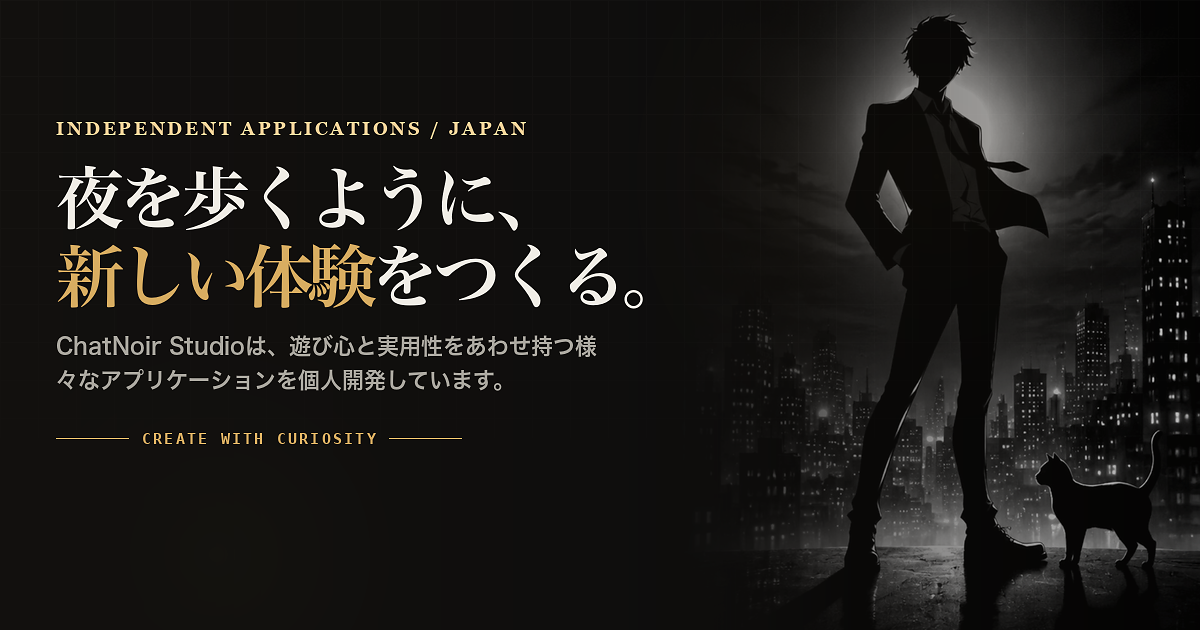
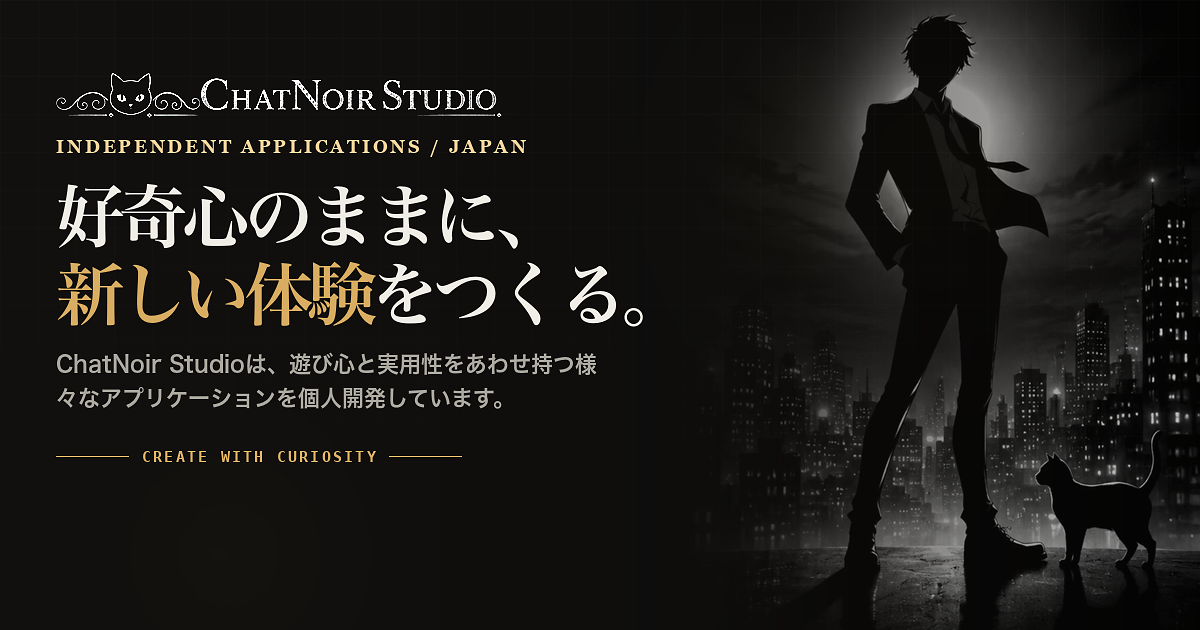
ヒーロー文言とOGPカードを更新し、レトロサウンドをベータ公開にする

Changed region(s): [[0.0308, 0.2714, 0.555, 0.6635], [0.0308, 0.1206, 0.4317, 0.2413], [0.1233, 0.6937, 0.3083, 0.754]]

diff --git a/index.html b/index.html
@@ -1,7 +1,7 @@
 <!doctype html>
-<html lang="ja"><head><meta charset="utf-8"><meta name="viewport" content="width=device-width, initial-scale=1"><meta name="description" content="ChatNoir Studioは、遊び心と実用性をあわせ持つ個人開発アプリケーションを制作しています。"><meta name="theme-color" content="#090a0b"><meta property="og:title" content="ChatNoir Studio"><meta property="og:description" content="遊び心と実用性をあわせ持つ、個人開発アプリケーション。"><meta property="og:type" content="website"><meta property="og:url" content="https://true-ocean.github.io/"><meta property="og:locale" content="ja_JP"><meta property="og:site_name" content="ChatNoir Studio"><meta property="og:image" content="https://true-ocean.github.io/assets/og-home.png"><meta property="og:image:type" content="image/png"><meta property="og:image:width" content="1200"><meta property="og:image:height" content="630"><meta property="og:image:alt" content="夜の街に立つ人物と黒猫。夜を歩くように、新しい体験をつくる。"><meta name="twitter:card" content="summary_large_image"><meta name="twitter:title" content="ChatNoir Studio"><meta name="twitter:description" content="遊び心と実用性をあわせ持つ、個人開発アプリケーション。"><meta name="twitter:image" content="https://true-ocean.github.io/assets/og-home.png"><meta name="twitter:image:alt" content="夜の街に立つ人物と黒猫。夜を歩くように、新しい体験をつくる。"><link rel="canonical" href="https://true-ocean.github.io/"><title>ChatNoir Studio — Independent applications</title><link rel="stylesheet" href="assets/site.css"></head>
+<html lang="ja"><head><meta charset="utf-8"><meta name="viewport" content="width=device-width, initial-scale=1"><meta name="description" content="ChatNoir Studioは、遊び心と実用性をあわせ持つ個人開発アプリケーションを制作しています。"><meta name="theme-color" content="#090a0b"><meta property="og:title" content="ChatNoir Studio"><meta property="og:description" content="遊び心と実用性をあわせ持つ、個人開発アプリケーション。"><meta property="og:type" content="website"><meta property="og:url" content="https://true-ocean.github.io/"><meta property="og:locale" content="ja_JP"><meta property="og:site_name" content="ChatNoir Studio"><meta property="og:image" content="https://true-ocean.github.io/assets/og-home.png"><meta property="og:image:type" content="image/png"><meta property="og:image:width" content="1200"><meta property="og:image:height" content="630"><meta property="og:image:alt" content="夜の街に立つ人物と黒猫。好奇心のままに、新しい体験をつくる。"><meta name="twitter:card" content="summary_large_image"><meta name="twitter:title" content="ChatNoir Studio"><meta name="twitter:description" content="遊び心と実用性をあわせ持つ、個人開発アプリケーション。"><meta name="twitter:image" content="https://true-ocean.github.io/assets/og-home.png"><meta name="twitter:image:alt" content="夜の街に立つ人物と黒猫。好奇心のままに、新しい体験をつくる。"><link rel="canonical" href="https://true-ocean.github.io/"><title>ChatNoir Studio — Independent applications</title><link rel="stylesheet" href="assets/site.css"></head>
 <body><div class="site-shell"><header class="site-header"><nav class="container nav" aria-label="メインナビゲーション"><a class="brand" href="./"><img class="brand-logo" src="assets/chatnoir-top-banner.png" alt="ChatNoir Studio"></a><div class="nav-links"><a href="#projects">Projects</a><a href="#philosophy">Philosophy</a></div></nav></header>
-<main><section class="hero"><div class="hero-poster" role="img" aria-label="夜の街に立つ人物と黒猫を描いたChatNoir Studioのイメージ"></div><div class="container hero-content"><p class="kicker">Independent applications / Japan</p><h1><span class="line">夜を歩くように、</span><span class="line"><em>新しい体験</em>をつくる。</span></h1><p class="lead">ChatNoir Studioは、遊び心と実用性をあわせ持つ様々なアプリケーションを個人開発しています。</p><p class="hero-rule">CREATE WITH CURIOSITY</p></div></section>
-<section class="section section-dark" id="projects"><div class="container"><div class="section-head"><div><p class="kicker">Projects</p><h2 class="heading-single">シャノワールの作品たち</h2></div><p class="section-copy">アイデアを、気持ちよく使える形へ。制作中のアプリケーションとプロジェクトを紹介します。</p></div><div class="projects"><article class="project project-retrosound eq-spectrum"><span class="project-eq" aria-hidden="true"><i></i><i></i><i></i><i></i><i></i></span><p class="project-status">SOUND CREATOR</p><h3>レトロサウンド</h3><p class="project-desc">ゲームの場面や用途を選ぶだけで、BGMと効果音をつくるサウンドツール。</p><span class="project-arrow" aria-hidden="true">COMING SOON</span></article><article class="project"><p class="project-status">STRATEGIC CARD BATTLE</p><h3>ピクセルバトル</h3><p class="project-desc">自分で描いたピクセル画像で強さが変わる、これまでにないカードバトル！</p><span class="project-arrow" aria-hidden="true">COMING SOON</span></article><a class="project project-keiba" href="/horse-racing/"><span class="project-horse" aria-hidden="true"></span><p class="project-status">HORSE RACING</p><h3>競馬アプリ</h3><p class="project-desc">競馬の楽しみ方を広げる、3つのアプリケーション。</p><span class="project-arrow" aria-hidden="true">VIEW APPS ↗</span></a></div></div></section>
+<main><section class="hero"><div class="hero-poster" role="img" aria-label="夜の街に立つ人物と黒猫を描いたChatNoir Studioのイメージ"></div><div class="container hero-content"><p class="kicker">Independent applications / Japan</p><h1><span class="line">好奇心のままに、</span><span class="line"><em>新しい体験</em>をつくる。</span></h1><p class="lead">ChatNoir Studioは、遊び心と実用性をあわせ持つ様々なアプリケーションを個人開発しています。</p><p class="hero-rule">CREATE WITH CURIOSITY</p></div></section>
+<section class="section section-dark" id="projects"><div class="container"><div class="section-head"><div><p class="kicker">Projects</p><h2 class="heading-single">シャノワールの作品たち</h2></div><p class="section-copy">アイデアを、気持ちよく使える形へ。制作中のアプリケーションとプロジェクトを紹介します。</p></div><div class="projects"><a class="project project-retrosound eq-spectrum" href="/GameSoundCreator/"><span class="project-eq" aria-hidden="true"><i></i><i></i><i></i><i></i><i></i></span><p class="project-status">SOUND CREATOR</p><h3>レトロサウンド</h3><p class="project-desc">ゲームの場面や用途を選ぶだけで、BGMと効果音をつくるサウンドツール。</p><span class="project-arrow" aria-hidden="true">ベータテスト中 ↗</span></a><article class="project"><p class="project-status">STRATEGIC CARD BATTLE</p><h3>ピクセルバトル</h3><p class="project-desc">自分で描いたピクセル画像で強さが変わる、これまでにないカードバトル！</p><span class="project-arrow" aria-hidden="true">COMING SOON</span></article><a class="project project-keiba" href="/horse-racing/"><span class="project-horse" aria-hidden="true"></span><p class="project-status">HORSE RACING</p><h3>競馬アプリ</h3><p class="project-desc">競馬の楽しみ方を広げる、3つのアプリケーション。</p><span class="project-arrow" aria-hidden="true">VIEW APPS ↗</span></a></div></div></section>
 <section class="section" id="philosophy"><div class="container"><p class="kicker">Philosophy</p><h2 class="heading-single">小さく、深く、心に残るものを。</h2><div class="beliefs"><article class="belief"><p class="belief-index">01 / PLAYFUL</p><h3>触れたくなること</h3><p>日常に、ほんの少しの驚きと遊び心を。</p></article><article class="belief"><p class="belief-index">02 / CRAFTED</p><h3>細部までつくること</h3><p>画面、音、動き。その一つひとつを丁寧に磨きます。</p></article><article class="belief"><p class="belief-index">03 / INDEPENDENT</p><h3>自分らしくつくること</h3><p>個人開発だからこそ、こだわりのあるものづくりを。</p></article></div></div></section>
 </main><footer class="site-footer"><div class="container footer-inner"><span>© 2026 ChatNoir Studio</span><span>Independent applications, made with curiosity.</span></div></footer></div></body></html>

diff --git a/scripts/generate-og-home.py b/scripts/generate-og-home.py
@@ -1,0 +1,237 @@
+#!/usr/bin/env python3
+"""Generate assets/og-home.png from the top-page hero composition (1200x630)."""
+
+from pathlib import Path
+from PIL import Image, ImageChops, ImageDraw, ImageEnhance, ImageFilter, ImageFont
+
+ROOT = Path(__file__).resolve().parents[1]
+OUT = ROOT / "assets" / "og-home.png"
+POSTER = ROOT / "assets" / "chatnoir-poster-figure.png"
+BANNER = ROOT / "assets" / "chatnoir-top-banner.png"
+
+W, H = 1200, 630
+PAPER = (240, 237, 230, 255)
+MUTED = (170, 167, 159, 255)
+GOLD = (216, 173, 97, 255)
+GOLD_BRIGHT = (242, 212, 154, 255)
+
+
+def find_font(pred):
+    for path in Path("/System/Library/Fonts").iterdir():
+        if pred(path.name):
+            return path
+    raise FileNotFoundError(pred)
+
+
+def load_font(path, size, index=0):
+    return ImageFont.truetype(str(path), size=size, index=index)
+
+
+def radial_glow(size, cx, cy, radius, color, peak_alpha):
+    layer = Image.new("RGBA", size, (0, 0, 0, 0))
+    px = layer.load()
+    r, g, b = color
+    r2 = radius * radius
+    x0, x1 = max(0, int(cx - radius)), min(size[0], int(cx + radius) + 1)
+    y0, y1 = max(0, int(cy - radius)), min(size[1], int(cy + radius) + 1)
+    for y in range(y0, y1):
+        dy = y - cy
+        for x in range(x0, x1):
+            d2 = (x - cx) * (x - cx) + dy * dy
+            if d2 >= r2:
+                continue
+            t = 1.0 - (d2 ** 0.5) / radius
+            a = int(peak_alpha * t * t)
+            if a:
+                px[x, y] = (r, g, b, a)
+    return layer
+
+
+def linear_gradient(size, stops, horizontal=True):
+    img = Image.new("RGBA", size)
+    px = img.load()
+    w, h = size
+    span = (w - 1) if horizontal else (h - 1)
+    for i in range(span + 1):
+        t = i / span
+        for a, b in zip(stops, stops[1:]):
+            if t <= b[0] or b is stops[-1]:
+                local = 0 if b[0] == a[0] else (t - a[0]) / (b[0] - a[0])
+                local = max(0.0, min(1.0, local))
+                color = tuple(int(a[1][c] + (b[1][c] - a[1][c]) * local) for c in range(4))
+                break
+        if horizontal:
+            for y in range(h):
+                px[i, y] = color
+        else:
+            for x in range(w):
+                px[x, i] = color
+    return img
+
+
+def cover_crop(im, tw, th, fx=0.5, fy=0.22):
+    iw, ih = im.size
+    scale = max(tw / iw, th / ih)
+    nw, nh = max(tw, round(iw * scale)), max(th, round(ih * scale))
+    im = im.resize((nw, nh), Image.Resampling.LANCZOS)
+    left = int(round(nw * fx - tw / 2))
+    top = int(round(nh * fy - th / 2))
+    left = max(0, min(left, nw - tw))
+    top = max(0, min(top, nh - th))
+    return im.crop((left, top, left + tw, top + th))
+
+
+def fade_mask(width, height, opacity=0.86):
+    mask = Image.new("L", (width, height), 0)
+    px = mask.load()
+    fade = max(1, int(width * 0.34))
+    peak = int(255 * opacity)
+    for x in range(width):
+        t = 1.0 if x >= fade else x / fade
+        val = int(peak * t)
+        for y in range(height):
+            px[x, y] = val
+    return mask
+
+
+def draw_tracked(draw, xy, text, font, fill, tracking=0):
+    x, y = xy
+    for ch in text:
+        draw.text((x, y), ch, font=font, fill=fill)
+        x += font.getlength(ch) + tracking
+    return x
+
+
+def wrap_text(text, font, max_width):
+    lines, current = [], ""
+    for ch in text:
+        trial = current + ch
+        if font.getlength(trial) <= max_width:
+            current = trial
+        else:
+            if current:
+                lines.append(current)
+            current = ch
+    if current:
+        lines.append(current)
+    return lines
+
+
+def load_banner(path, height=100, max_width=700):
+    im = Image.open(path).convert("RGBA")
+    gray = im.convert("L")
+    bbox = gray.point(lambda p: 255 if p > 32 else 0).getbbox()
+    if bbox:
+        pad = 2
+        left = max(0, bbox[0] - pad)
+        top = max(0, bbox[1] - pad)
+        right = min(im.width, bbox[2] + pad)
+        bottom = min(im.height, bbox[3] + pad)
+        im = im.crop((left, top, right, bottom))
+    scale = height / im.height
+    size = (max(1, round(im.width * scale)), height)
+    if size[0] > max_width:
+        scale = max_width / im.width
+        size = (max_width, max(1, round(im.height * scale)))
+    im = im.resize(size, Image.Resampling.LANCZOS)
+    im = ImageEnhance.Contrast(im).enhance(1.35)
+    im = ImageEnhance.Brightness(im).enhance(1.18)
+    luma = im.convert("L")
+    alpha = luma.point(lambda p: 0 if p < 26 else 255 if p > 48 else int((p - 26) * (255 / 22)))
+    im.putalpha(alpha)
+    return im.filter(ImageFilter.UnsharpMask(radius=1.4, percent=160, threshold=1))
+
+
+def main():
+    mincho_path = find_font(lambda n: "ProN.ttc" in n and "明朝" in n)
+    sans_path = find_font(lambda n: n.endswith("W6.ttc") and "角" in n)
+    menlo = Path("/System/Library/Fonts/Menlo.ttc")
+
+    kicker_font = load_font(Path("/System/Library/Fonts/Supplemental/Georgia Bold.ttf"), 18)
+    title_font = load_font(mincho_path, 68, index=2)
+    lead_font = load_font(sans_path, 22)
+    rule_font = load_font(menlo, 15, index=1)
+
+    canvas = Image.new("RGBA", (W, H), (8, 9, 10, 255))
+    canvas = Image.alpha_composite(
+        canvas,
+        radial_glow((W, H), int(W * 0.78), int(H * 0.28), 340, (232, 169, 56), 72),
+    )
+    canvas = Image.alpha_composite(
+        canvas,
+        radial_glow((W, H), int(W * 0.18), int(H * 0.88), 260, (185, 228, 83), 36),
+    )
+
+    poster_w = 520
+    poster = Image.open(POSTER).convert("RGB")
+    poster = ImageEnhance.Color(poster).enhance(0)
+    poster = ImageEnhance.Contrast(poster).enhance(1.08)
+    poster = cover_crop(poster, poster_w, H).convert("RGBA")
+    poster.putalpha(fade_mask(poster_w, H, opacity=0.88))
+    canvas.paste(poster, (W - poster_w, 0), poster)
+
+    overlay = linear_gradient(
+        (W, H),
+        [
+            (0.0, (18, 16, 14, 250)),
+            (0.42, (18, 16, 14, 194)),
+            (1.0, (18, 16, 14, 38)),
+        ],
+    )
+    canvas = Image.alpha_composite(canvas, overlay)
+
+    grid = Image.new("RGBA", (W, H), (0, 0, 0, 0))
+    gdraw = ImageDraw.Draw(grid)
+    step = 38
+    line = (240, 237, 230, 20)
+    for x in range(0, W, step):
+        gdraw.line((x, 0, x, H), fill=line)
+    for y in range(0, H, step):
+        gdraw.line((0, y, W, y), fill=line)
+    fade = linear_gradient(
+        (W, H),
+        [(0.0, (255, 255, 255, 76)), (0.84, (255, 255, 255, 0)), (1.0, (255, 255, 255, 0))],
+        horizontal=False,
+    )
+    grid.putalpha(ImageChops.multiply(grid.split()[-1], fade.split()[-1]))
+    canvas = Image.alpha_composite(canvas, grid)
+
+    banner = load_banner(BANNER)
+    draw = ImageDraw.Draw(canvas)
+    x0 = 56
+    canvas.paste(banner, (x0, 18), banner)
+    y = 18 + banner.size[1] + 18
+
+    draw_tracked(draw, (x0, y), "INDEPENDENT APPLICATIONS / JAPAN", kicker_font, GOLD_BRIGHT, tracking=2.8)
+    y += 46
+
+    line1 = "好奇心のままに、"
+    line2_gold = "新しい体験"
+    line2_rest = "をつくる。"
+    tracking = -68 * 0.075
+    draw_tracked(draw, (x0, y), line1, title_font, PAPER, tracking=tracking)
+    y += 78
+    x = draw_tracked(draw, (x0, y), line2_gold, title_font, GOLD, tracking=tracking)
+    draw_tracked(draw, (x, y), line2_rest, title_font, PAPER, tracking=tracking)
+    y += 92
+
+    lead = "ChatNoir Studioは、遊び心と実用性をあわせ持つ様々なアプリケーションを個人開発しています。"
+    for line in wrap_text(lead, lead_font, 560):
+        draw.text((x0, y), line, font=lead_font, fill=MUTED)
+        y += 34
+
+    y += 28
+    rule = "CREATE WITH CURIOSITY"
+    rule_w = rule_font.getlength(rule) + 2.2 * (len(rule) - 1)
+    rule_x = x0
+    draw.line((rule_x, y + 8, rule_x + 72, y + 8), fill=GOLD, width=1)
+    draw_tracked(draw, (rule_x + 86, y), rule, rule_font, GOLD, tracking=2.2)
+    draw.line((rule_x + 86 + rule_w + 14, y + 8, rule_x + 86 + rule_w + 86, y + 8), fill=GOLD, width=1)
+
+    canvas = canvas.filter(ImageFilter.UnsharpMask(radius=0.6, percent=80, threshold=2))
+    canvas.convert("RGB").save(OUT, "PNG", optimize=True)
+    print(f"wrote {OUT} {canvas.size}")
+
+
+if __name__ == "__main__":
+    main()
